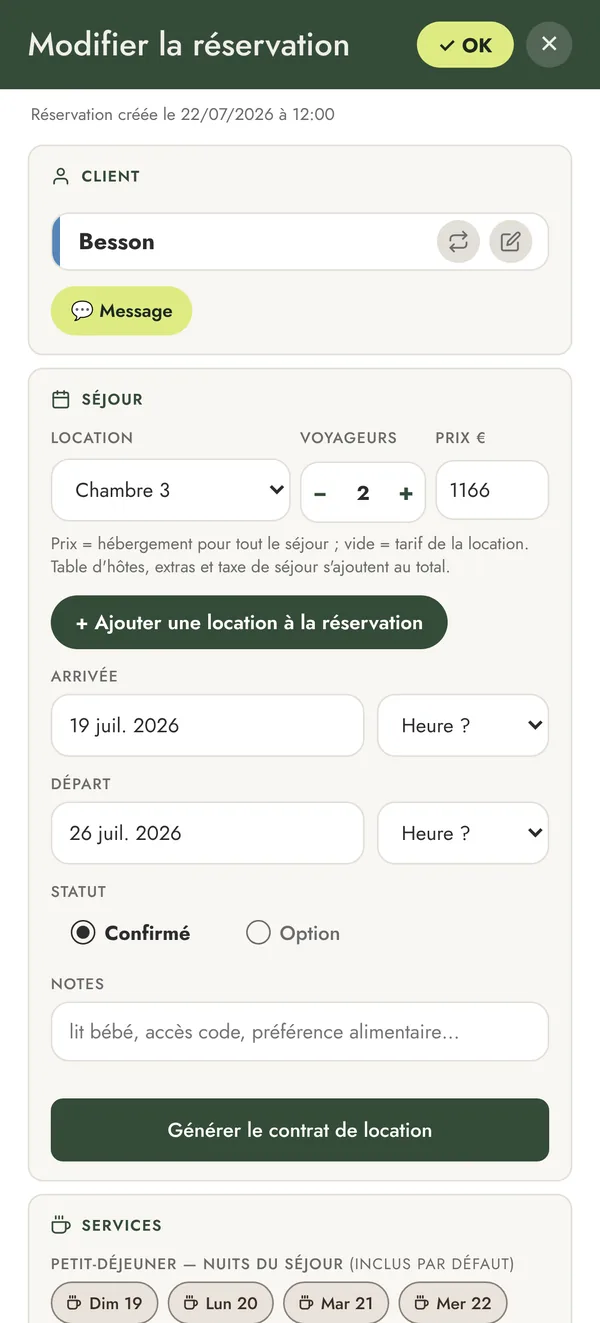
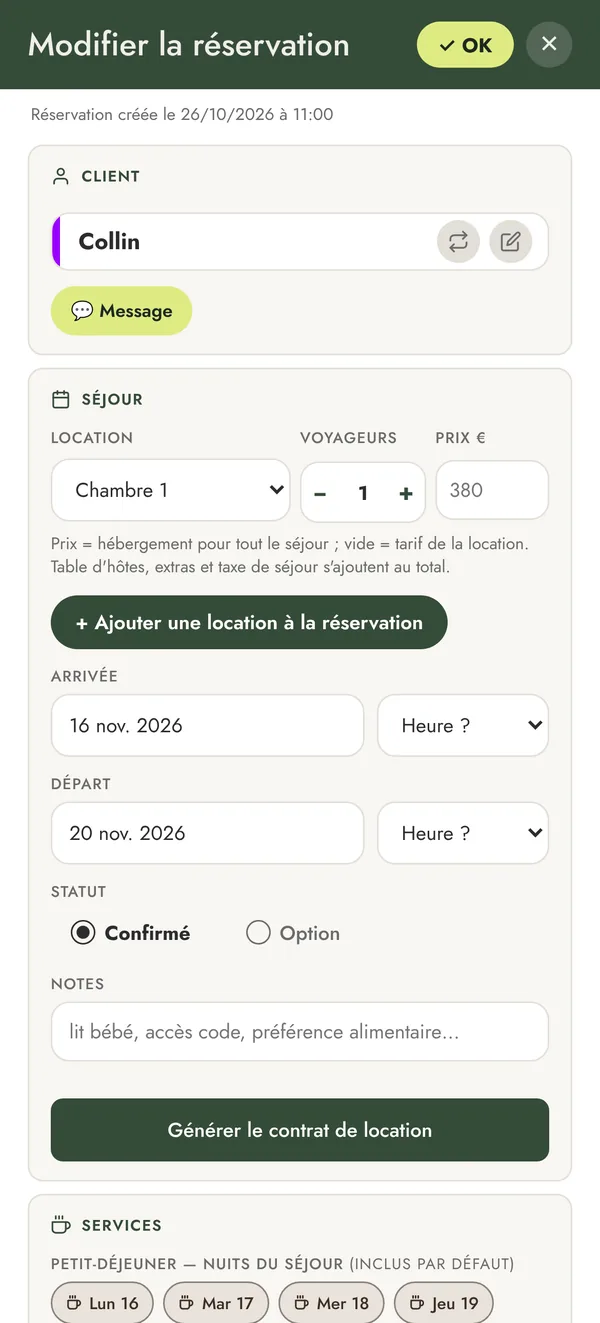
Captures refaites au 26/10/2026 : réservations à venir, en couleur
Dans l'outil, une réservation payée s'affiche en gris (en attente :
rouge) ; l'été de démo étant presque entièrement payé, la grille
paraissait grise. Toutes les captures sont refaites avec la date de
l'export (26 octobre 2026) : la grille (fixe et défilante) commence ce
jour-là et ne montre que des séjours à venir, en couleur ; fiche
réservation d'un séjour de novembre.

Claude-Session: https://claude.ai/code/session_015UkhmLjrT4EUgtovE2ewbm

diff --git a/index.html b/index.html
@@ -382,7 +382,7 @@ img{display:block; max-width:100%;}
           <li><svg viewBox="0 0 24 24" fill="none" stroke="currentColor" stroke-width="1.8" stroke-linecap="round" stroke-linejoin="round"><circle cx="12" cy="12" r="3"/><path d="M19.4 15a1.7 1.7 0 0 0 .3 1.8l.1.1a2 2 0 1 1-2.8 2.8l-.1-.1a1.7 1.7 0 0 0-1.8-.3 1.7 1.7 0 0 0-1 1.5V21a2 2 0 1 1-4 0v-.1a1.7 1.7 0 0 0-1.1-1.5 1.7 1.7 0 0 0-1.8.3l-.1.1a2 2 0 1 1-2.8-2.8l.1-.1a1.7 1.7 0 0 0 .3-1.8 1.7 1.7 0 0 0-1.5-1H3a2 2 0 1 1 0-4h.1a1.7 1.7 0 0 0 1.5-1.1 1.7 1.7 0 0 0-.3-1.8l-.1-.1a2 2 0 1 1 2.8-2.8l.1.1a1.7 1.7 0 0 0 1.8.3H9a1.7 1.7 0 0 0 1-1.5V3a2 2 0 1 1 4 0v.1a1.7 1.7 0 0 0 1 1.5 1.7 1.7 0 0 0 1.8-.3l.1-.1a2 2 0 1 1 2.8 2.8l-.1.1a1.7 1.7 0 0 0-.3 1.8V9a1.7 1.7 0 0 0 1.5 1H21a2 2 0 1 1 0 4h-.1a1.7 1.7 0 0 0-1.5 1z"/></svg>Outils complets<br>pour votre activité</li>
         </ul>
       </div>
-      <div class="hl-visual"><div class="da-phone hl-shot da-gridscroll" role="img" aria-label="La grille de Fiftin Planning : toute la saison, chambre par chambre"><div class="da-scr"><img class="gs-top" src="assets/app-grille-haut.webp" width="600" height="180" alt=""><div class="gs-body"><img src="assets/app-grille-corps.webp" width="600" height="3829" alt="" loading="lazy"></div><img class="gs-bot" src="assets/app-grille-bas.webp" width="600" height="83" alt=""></div></div></div>
+      <div class="hl-visual"><div class="da-phone hl-shot da-gridscroll" role="img" aria-label="La grille de Fiftin Planning : toute la saison, chambre par chambre"><div class="da-scr"><img class="gs-top" src="assets/app-grille-haut.webp" width="600" height="180" alt=""><div class="gs-body"><img src="assets/app-grille-corps.webp" width="600" height="2969" alt="" loading="lazy"></div><img class="gs-bot" src="assets/app-grille-bas.webp" width="600" height="83" alt=""></div></div></div>
     </article>
   </div>
 </div></div>

diff --git a/planning/index.html b/planning/index.html
@@ -438,7 +438,7 @@ section[id]{scroll-margin-top:72px;}
       </ul>
     </div>
     <div class="pl-visual">
-      <div class="da-phone pl-mock da-gridscroll" role="img" aria-label="La grille de Fiftin Planning : toute la saison, chambre par chambre"><div class="da-scr"><img class="gs-top" src="assets/app-grille-haut.webp" width="600" height="180" alt=""><div class="gs-body"><img src="assets/app-grille-corps.webp" width="600" height="3829" alt="" loading="lazy"></div><img class="gs-bot" src="assets/app-grille-bas.webp" width="600" height="83" alt=""></div></div>
+      <div class="da-phone pl-mock da-gridscroll" role="img" aria-label="La grille de Fiftin Planning : toute la saison, chambre par chambre"><div class="da-scr"><img class="gs-top" src="assets/app-grille-haut.webp" width="600" height="180" alt=""><div class="gs-body"><img src="assets/app-grille-corps.webp" width="600" height="2969" alt="" loading="lazy"></div><img class="gs-bot" src="assets/app-grille-bas.webp" width="600" height="83" alt=""></div></div>
       <div class="da-phone pl-mock"><img src="assets/app-reservation.webp" width="600" height="1323" loading="lazy" alt="Fiche réservation de Fiftin Planning"></div>
     </div>
     <p class="pl-small pl-below">Les captures sont issues de l'application.</p>

diff --git a/CLAUDE.md b/CLAUDE.md
@@ -30,7 +30,7 @@ Annuaire mobile-first de location courte durée en réservation directe pour les
 - Vidéo de marque réservée aux heros, même voile vert (`rgba(29,40,32,.20→.32→.24)`), image fixe de secours.
 - Fonds : hero vidéo → zones blanc / crème qui se chevauchent avec coins arrondis de 44 px → zone finale vert sauge avec le pied de page commun (`.da-foot`). Cartes : dégradés sauge (#EDF1E8→#E3E9DE) et lavande (#EEF0FA→#E2E6F6), rayon 28 px.
 - En-tête fixe sur l'accueil et Planning : transparent sur la vidéo, barre crème translucide à liseré dès qu'on défile (pastille d'accueil centrée sur Planning, « Se connecter » à droite). Page Planning construite comme l'accueil : hero vidéo plein écran au texte centré, parties centrées (titre, texte, visuel en dessous).
-- Logo en verre : proportions de l'écran d'arrivée de l'outil (coins 25 %, lettrage 61 % décalé de −3 %). Téléphones : uniquement la maquette maison `.da-phone`, cadre noir très fin (coins arrondis, liseré clair, ombre douce, droit) avec les captures `assets/app-*.webp` dedans — plus aucune maquette réaliste. Captures prises dans l'outil avec le compte démo anonymisé « Les Aulnes » (cesarmarandin@gmail.com), via l'émulateur Firebase local, format 390×860, sans barre d'état ni barre de navigateur. Grille : `app-grille-haut/corps/bas.webp`, corps qui défile dans le téléphone au rythme de la page (`.da-gridscroll`). Page Planning : section `#plTour` sous le hero, téléphone collant qui passe par les 5 vues (Grille, Location, Semaine, Mois, Année) au défilement.
+- Logo en verre : proportions de l'écran d'arrivée de l'outil (coins 25 %, lettrage 61 % décalé de −3 %). Téléphones : uniquement la maquette maison `.da-phone`, cadre noir très fin (coins arrondis, liseré clair, ombre douce, droit) avec les captures `assets/app-*.webp` dedans — plus aucune maquette réaliste. Captures prises dans l'outil avec le compte démo anonymisé « Les Aulnes » (cesarmarandin@gmail.com), via l'émulateur Firebase local, date fixée au 26/10/2026 (réservations à venir = en couleur ; payées = grises), format 390×860, sans barre d'état ni barre de navigateur. Grille : `app-grille-haut/corps/bas.webp`, corps qui défile dans le téléphone au rythme de la page (`.da-gridscroll`). Page Planning : section `#plTour` sous le hero, téléphone collant qui passe par les 5 vues (Grille, Location, Semaine, Mois, Année) au défilement.
 
 ## Relation entre les deux projets
 
